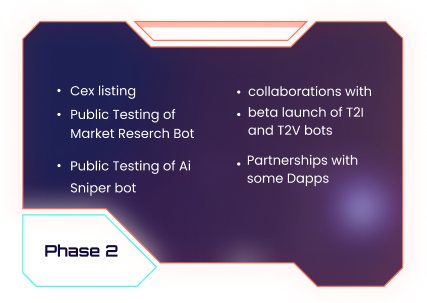
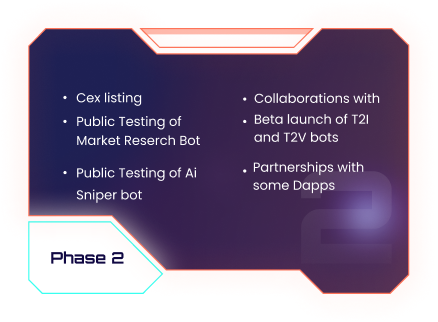
new

diff --git a/src/components/Roadmap.js b/src/components/Roadmap.js
@@ -64,7 +64,7 @@ const Roadmap = () => {
               />
             )}
             <img
-              src="/assets/images/box22.svg"
+              src="/assets/images/box22.png"
               className="hidden sm:flex"
               alt=""
             />
